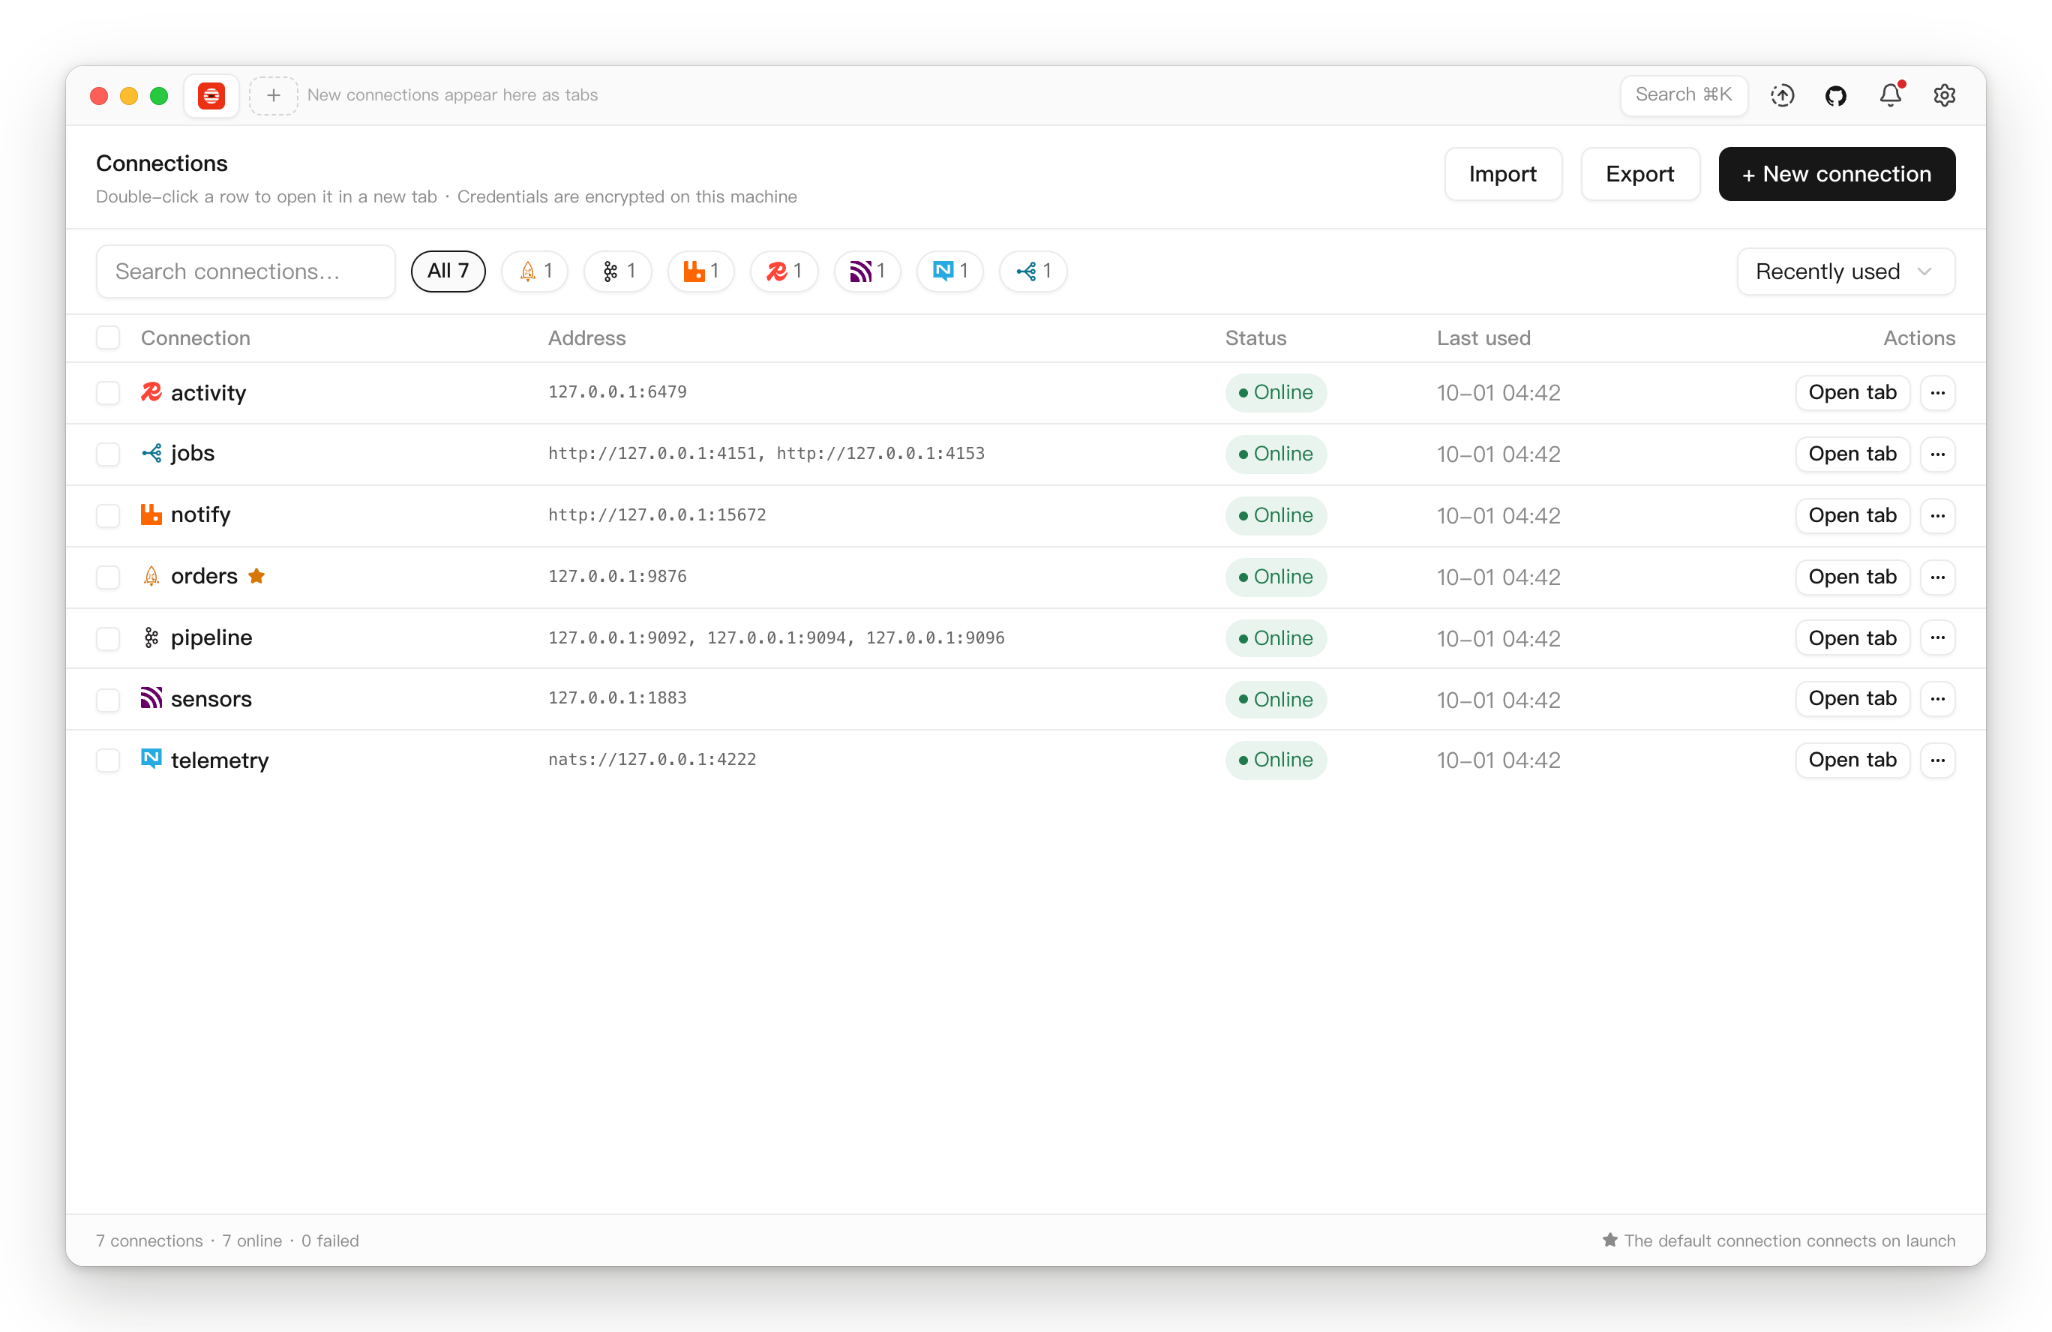
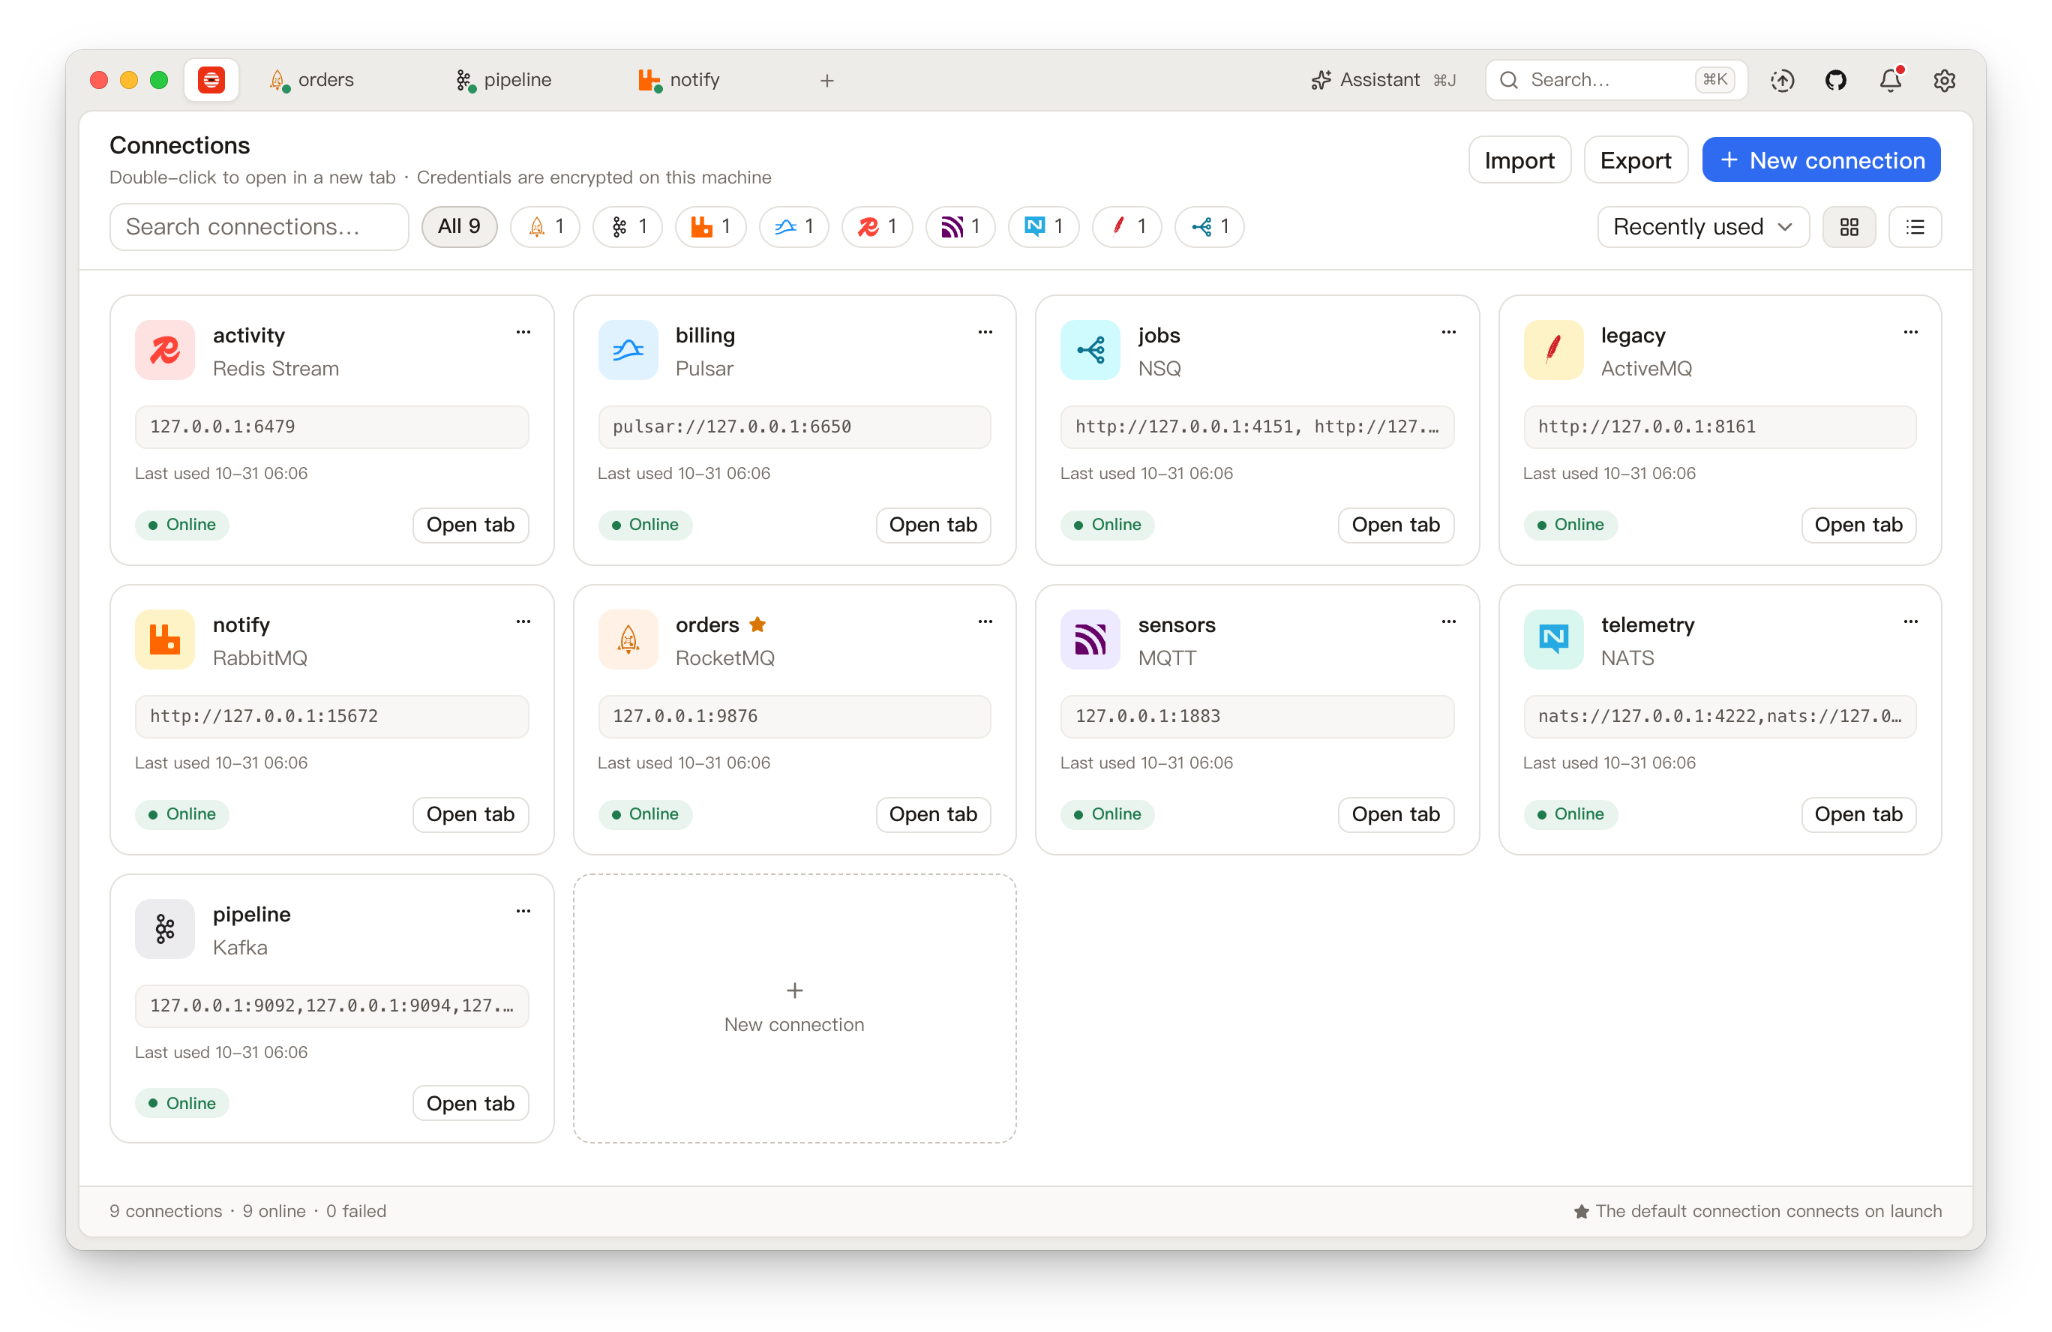
docs(readme): refresh screenshots for the redesign
The README screenshots predated the 0.4.0 redesign (#119): the old
palette, a connection table instead of the card grid, and details that
did not open beside the list. All sixteen are retaken from a live build
against the e2e brokers, in both languages, at the same 2052x1332 size
the website build turns into its own pictures. The copy that described
the old connection list now matches the new pages.

diff --git a/README.zh-CN.md b/README.zh-CN.md
@@ -29,7 +29,7 @@
 
 <picture>
   <source media="(prefers-color-scheme: dark)" srcset="docs/images/readme/overview.dark.png">
-  <img src="docs/images/readme/overview.png" width="100%" alt="MQ Studio 连接一个运行中的 RocketMQ 集群：Broker、Topic、消费组、生产速率与总堆积，吞吐趋势图、Broker 健康状况与最活跃的 Topic">
+  <img src="docs/images/readme/overview.png" width="100%" alt="MQ Studio 连接一个运行中的 RocketMQ 集群：Broker、Topic、消费组、生产速率与总堆积，吞吐趋势图、Broker 健康状况、最活跃的 Topic 与堆积最多的消费组">
 </picture>
 
 ## 为什么用 MQ Studio
@@ -37,7 +37,7 @@
 每一种消息队列都自带一个控制台：页面不同、叫法不同，而且每一个都是要部署、要值守的服务。MQ Studio 把它们放进同一套页面。
 
 - **无需部署。** macOS、Windows、Linux 桌面应用，连接配置留在本机，凭证加密存储。
-- **一套流程走遍所有中间件。** Topic、消费者、消息、集群与告警，不管连的是哪一种，用法都一样。
+- **一套流程走遍所有中间件。** Topic、消费者、消息、集群与告警，不管连的是哪一种，用法都一样；每个列表的详情都在旁边的面板里打开。
 - **如实呈现每个中间件。** 每个连接都会上报端点真正能做什么，中间件没有的功能会说明原因，而不是假装有。
 - **每个页面旁都有 AI 助手。** 问它某个消费组为什么落后，它会自己去 broker 上查；模型服务由你选，要改动什么都先等你批准。
 - **也能交给 agent。** 同一个二进制通过 MCP 提供这些连接：默认只读，清空、删除要人确认，每个写操作都有记录。
@@ -47,22 +47,22 @@
 <table>
   <tr>
     <td width="50%" valign="top">
-      <img src="docs/images/readme/messages.png" alt="在一个 RocketMQ Topic 上查询消息，打开其中一条订单消息，JSON 消息体已经格式化">
+      <img src="docs/images/readme/messages.png" alt="在一个 RocketMQ Topic 上查询消息，其中一条订单消息在列表旁的面板里打开，JSON 消息体已经格式化">
       <p><strong>消息。</strong>按 Key、Tag 或 ID 查询，打开消息体，看哪些消费组已经消费。</p>
     </td>
     <td width="50%" valign="top">
-      <img src="docs/images/readme/consumers.png" alt="按积压排序的消费组列表，打开一个落后的组：没有在线客户端，以及它读的每个队列的积压">
+      <img src="docs/images/readme/consumers.png" alt="按积压排序的消费组列表，legacy-sync 的详情在列表旁的面板里打开：没有在线客户端，以及它读的每个队列的位点与积压">
       <p><strong>消费积压。</strong>查清一个组为什么落后：逐队列的积压、在线的客户端，以及可以重置或克隆的位点。</p>
     </td>
   </tr>
   <tr>
     <td width="50%" valign="top">
-      <img src="docs/images/readme/topics.png" alt="按生产 TPS 排序的 Topic 列表，打开其中一个：吞吐、订阅它的消费组，以及每个队列的位点">
+      <img src="docs/images/readme/topics.png" alt="按生产 TPS 排序的 Topic 列表，order-create 的详情在列表旁的面板里打开：吞吐、订阅它的消费组与队列">
       <p><strong>Topic。</strong>每个 Topic 的吞吐、队列与订阅关系，直接读自 Broker。</p>
     </td>
     <td width="50%" valign="top">
-      <img src="docs/images/readme/connections.png" alt="连接列表：RocketMQ、Kafka、RabbitMQ、Redis Stream、NATS、MQTT 与 NSQ 集群，全部在线">
-      <p><strong>连接。</strong>不管哪种中间件，所有集群都在一个列表里，每个都在自己的标签页中打开。</p>
+      <img src="docs/images/readme/connections.png" alt="卡片形式的连接页：Redis Stream、Pulsar、NSQ、ActiveMQ、RabbitMQ、RocketMQ、MQTT、NATS 与 Kafka 集群，全部在线">
+      <p><strong>连接。</strong>不管哪种中间件，所有集群都在一个页面里，可以按卡片或列表查看，每个都在自己的标签页中打开。</p>
     </td>
   </tr>
 </table>

diff --git a/README.md b/README.md
@@ -29,7 +29,7 @@
 
 <picture>
   <source media="(prefers-color-scheme: dark)" srcset="docs/images/readme/overview.en.dark.png">
-  <img src="docs/images/readme/overview.en.png" width="100%" alt="MQ Studio showing a live RocketMQ cluster: brokers, topics, consumer groups, produce rate and total backlog, a throughput chart, broker health and the busiest topics">
+  <img src="docs/images/readme/overview.en.png" width="100%" alt="MQ Studio showing a live RocketMQ cluster: brokers, topics, consumer groups, produce rate and total backlog, a throughput chart, broker health, the busiest topics and the groups furthest behind">
 </picture>
 
 ## Why MQ Studio
@@ -40,7 +40,7 @@ service to deploy and keep alive. MQ Studio puts all of them behind the same pag
 - **Nothing to deploy.** A desktop app for macOS, Windows and Linux. Profiles stay on your
   machine, and credentials are encrypted at rest.
 - **One workflow for every broker.** Topics, consumers, messages, cluster and alerts work the
-  same way whichever broker you connect to.
+  same way whichever broker you connect to, and every list opens its details beside it.
 - **Honest about each broker.** Every connection reports what its endpoint can actually do, so
   a feature the broker lacks is explained rather than faked.
 - **An assistant beside every page.** Ask why a group is behind and it reads the broker to find
@@ -53,22 +53,22 @@ service to deploy and keep alive. MQ Studio puts all of them behind the same pag
 <table>
   <tr>
     <td width="50%" valign="top">
-      <img src="docs/images/readme/messages.en.png" alt="Querying messages on a RocketMQ topic, with one order message open and its JSON body formatted">
+      <img src="docs/images/readme/messages.en.png" alt="Querying messages on a RocketMQ topic, with one order message open in a panel beside the list and its JSON body formatted">
       <p><strong>Messages.</strong> Query by key, tag or id, open the body, and see which consumer groups have read it.</p>
     </td>
     <td width="50%" valign="top">
-      <img src="docs/images/readme/consumers.en.png" alt="Consumer groups sorted by backlog, with a lagging group open: no online clients, and the backlog of every queue it reads">
+      <img src="docs/images/readme/consumers.en.png" alt="Consumer groups sorted by backlog, with legacy-sync open in a panel beside the list: no online clients, and the offsets and backlog of every queue it reads">
       <p><strong>Consumer lag.</strong> See why a group is behind: backlog per queue, who is connected, and offsets to reset or clone.</p>
     </td>
   </tr>
   <tr>
     <td width="50%" valign="top">
-      <img src="docs/images/readme/topics.en.png" alt="Topics sorted by produce rate, with one topic open: its throughput, subscribed groups, and the offsets of every queue">
+      <img src="docs/images/readme/topics.en.png" alt="Topics sorted by produce rate, with order-create open in a panel beside the list: its throughput, subscribed groups and queues">
       <p><strong>Topics.</strong> Throughput, queues and subscribers for every topic, read from the broker itself.</p>
     </td>
     <td width="50%" valign="top">
-      <img src="docs/images/readme/connections.en.png" alt="The connection list with RocketMQ, Kafka, RabbitMQ, Redis Stream, NATS, MQTT and NSQ clusters, all online">
-      <p><strong>Connections.</strong> Every cluster in one list, whatever the broker; each opens in its own tab.</p>
+      <img src="docs/images/readme/connections.en.png" alt="Connections as a card grid: Redis Stream, Pulsar, NSQ, ActiveMQ, RabbitMQ, RocketMQ, MQTT, NATS and Kafka clusters, all online">
+      <p><strong>Connections.</strong> Every cluster on one page, as cards or a list, whatever the broker; each opens in its own tab.</p>
     </td>
   </tr>
 </table>
